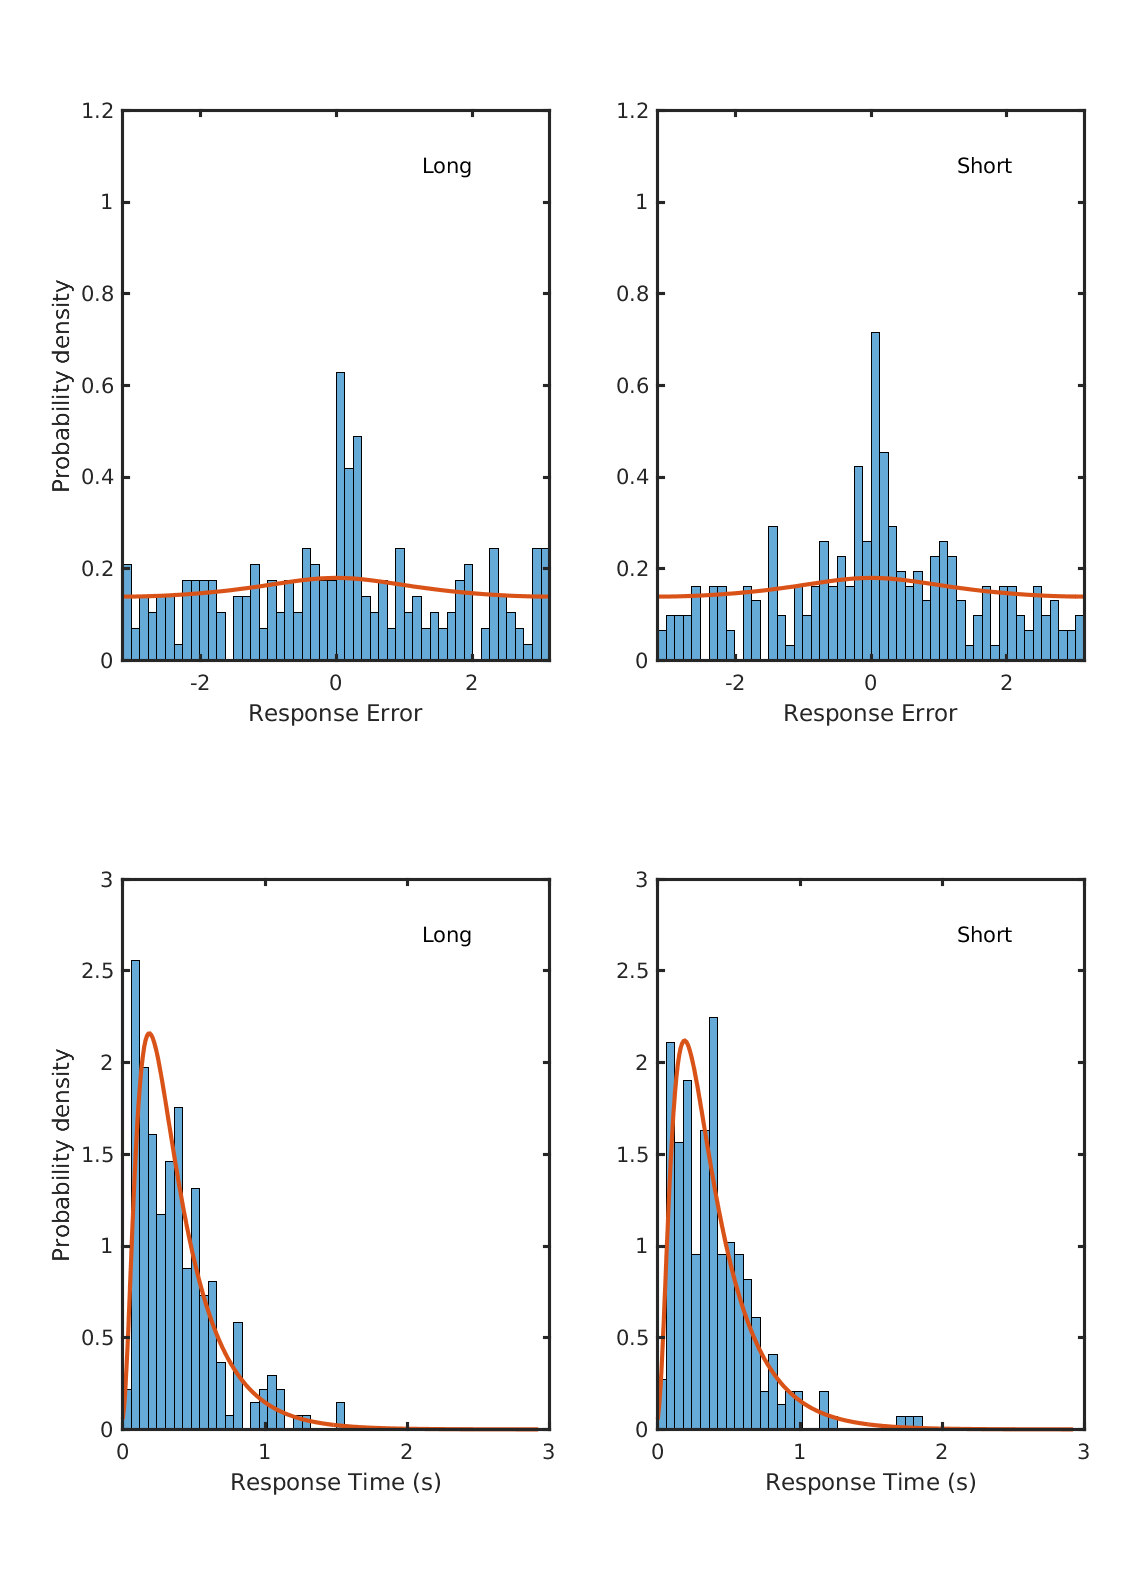
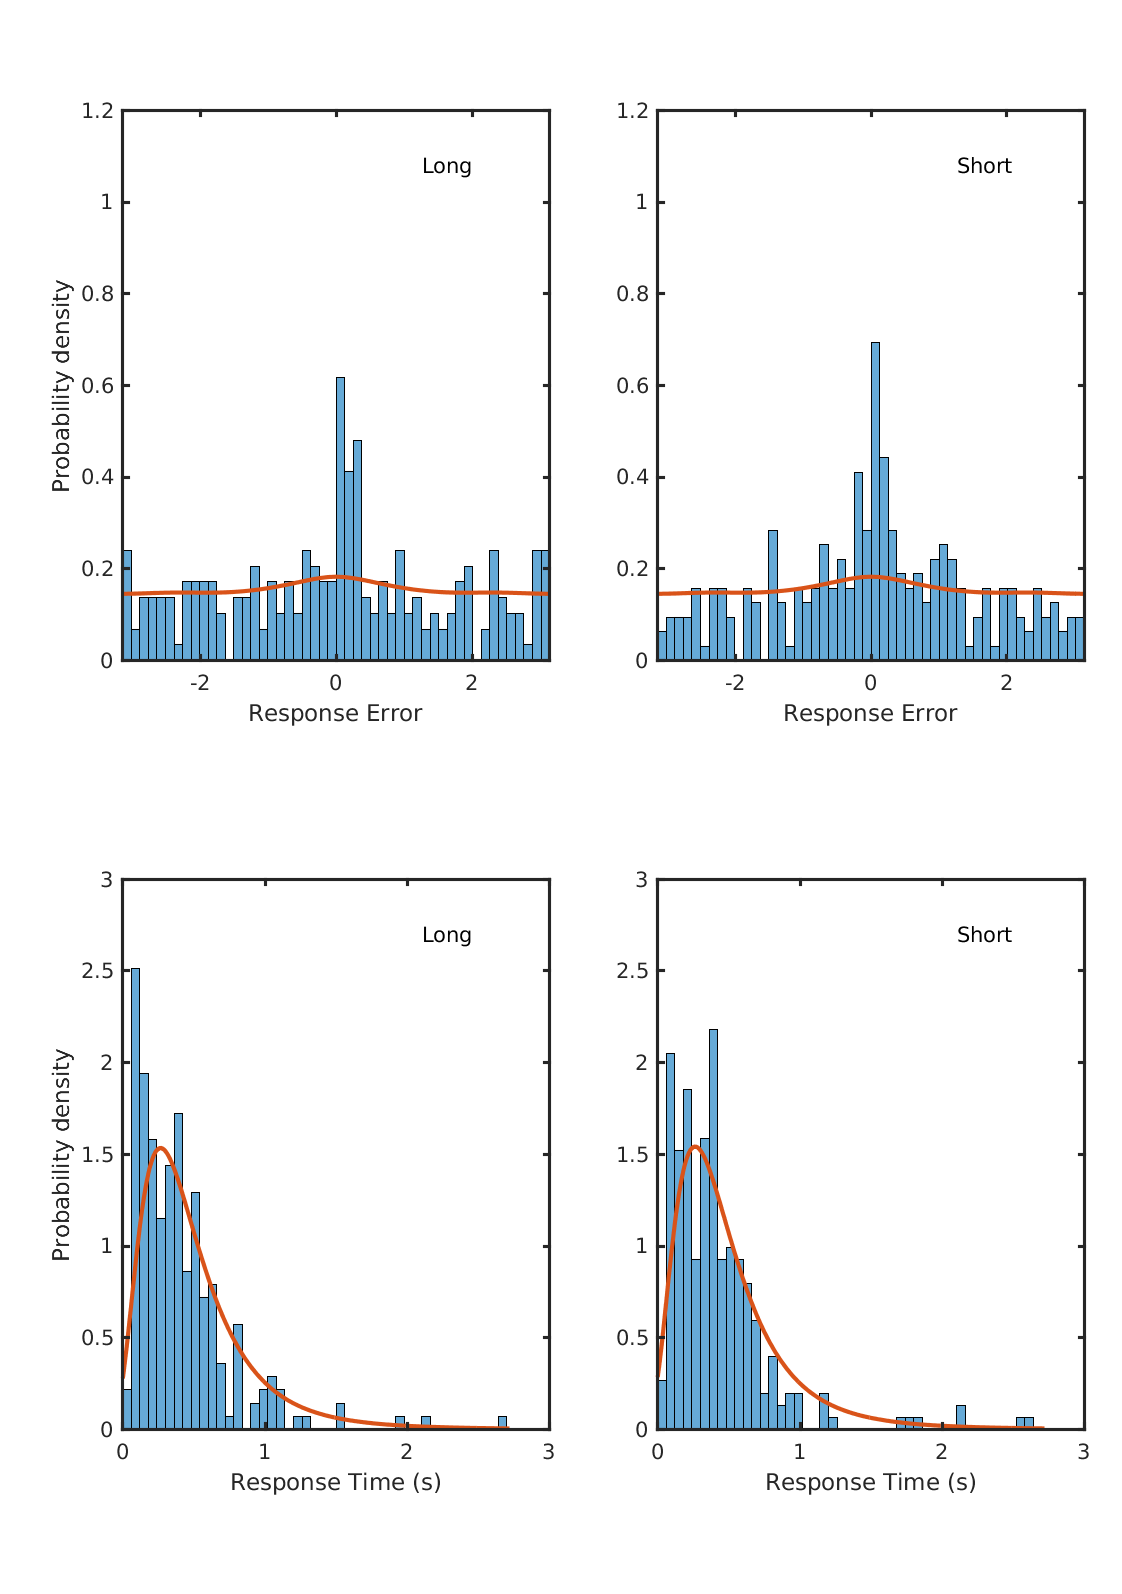
checkfits

diff --git a/models/code/gvm/UoMFitPrograms/Treatment_Simple.m b/models/code/gvm/UoMFitPrograms/Treatment_Simple.m
@@ -7,8 +7,9 @@ function [Fit_Data] = Treatment_Simple()
 % J1(:,1)=[];
 % J3(:,1)=[];
 % MATLAB doesnt like having strings and numbers together)
-load('Jindiv_Filtered.mat');
-J1(:,1) = [];
+%load('Jindiv_Filtered.mat'); % Filtered version
+load('Jindiv_Simple.mat');
+%J1(:,1) = [];
 %Split high and low recog conf
 
 %Split
@@ -31,6 +32,7 @@ J_LC = J1(J1(:,2)<3,:);
 participants = [1,2,3,4,5,6,7,8,9,10,11,12,13,15,16,17,18,19,20];
 Subject = cell(length(participants),4);
 for i = participants
+    %disp(size(J_HC))
     ntrials_Y_LOW = length(J_HC(J_HC(:,1)==1&J_HC(:,8)==i,:)); %recognised (>=3) and Low Imageability condition
     ntrials_Y_HIGH = length(J_HC(J_HC(:,1)==2&J_HC(:,8)==i,:));
     ntrials_N_LOW = length(J_LC(J_LC(:,1)==1&J_LC(:,8)==i,:));

diff --git a/models/code/gvm/UoMFitPrograms/fitGVM.m b/models/code/gvm/UoMFitPrograms/fitGVM.m
@@ -20,7 +20,8 @@ P = [2.48635633531635,2.50657983082597,0.329211490420301,0.788896541814084,1.025
 
 %P=[nunorm1, nunorm2, kappa1, kappa2, eta, rho, a, Ter, st, sa];
 
-Sel = [1,1,1,1,1,1,1,1,1,1];  % all parameters free
+%Sel = [1,1,1,1,1,1,1,1,1,1];  % all parameters free
+Sel = [0,0,0,0,0,0,0,0,0,0]; 
 nlow = length(data{1,1});
 nhigh = length(data{1,2});
 
